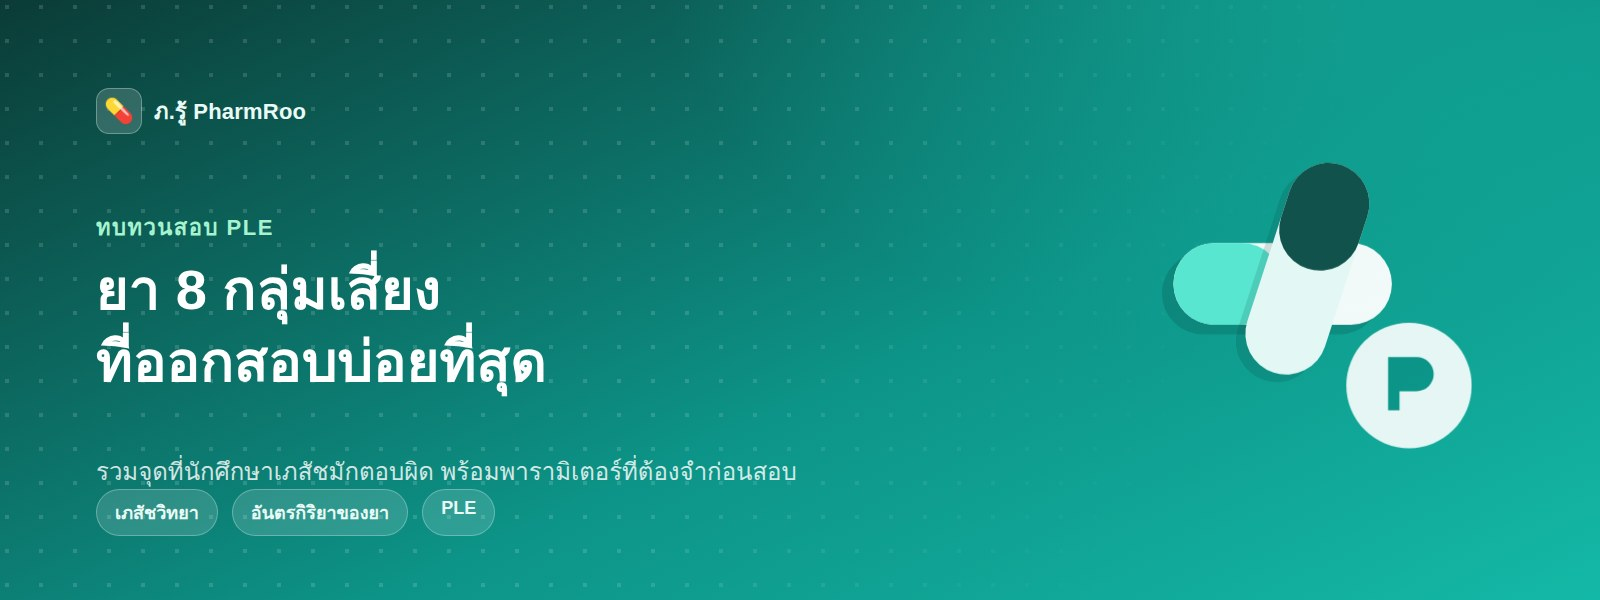
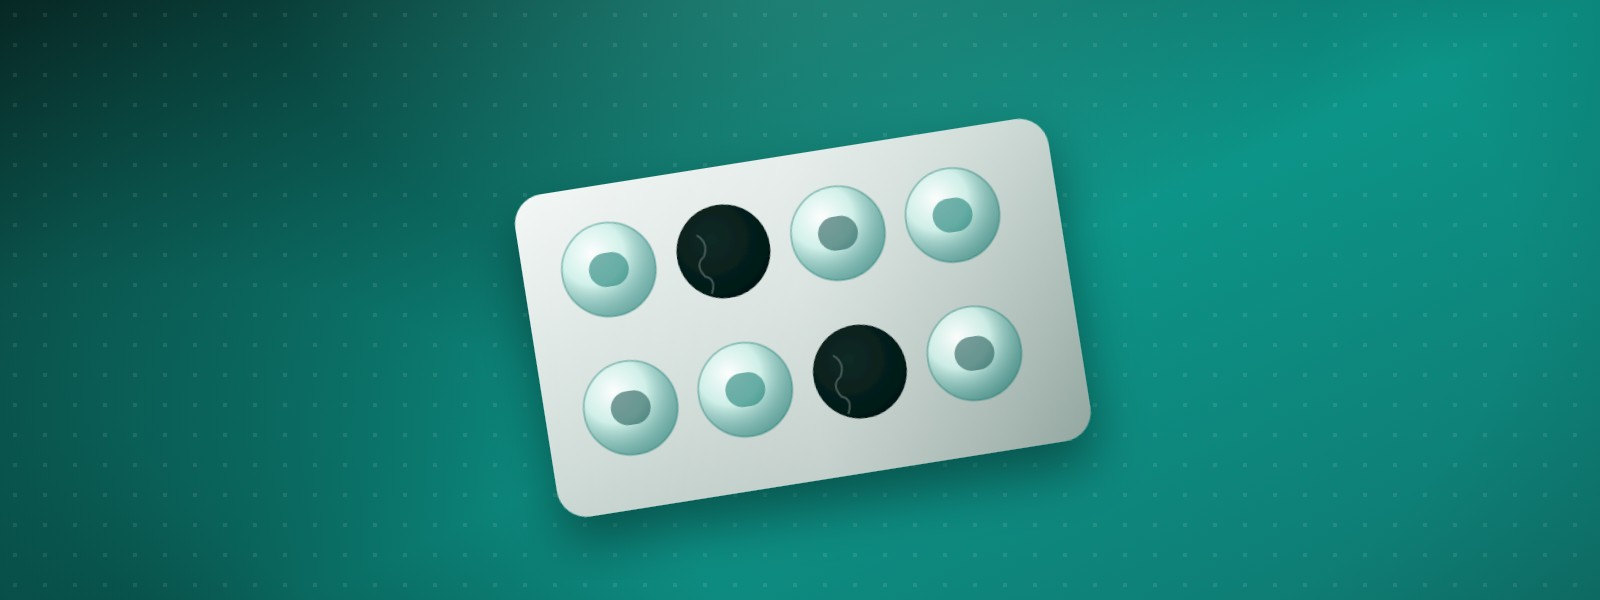
Make the newest blog post a full-width featured card + redo cover art
The 2-column grid put a single post in a half-width cell, much
narrower than the full-width health-news section above it. The newest
post now renders as a full-width featured card (taller image, larger
title) matching that section's visual weight; any older posts still
render in the 2-col grid below.

Also replaces the cover image: the first version baked a duplicate
headline into the graphic (redundant with the real title already
shown in the card) and wasn't safe to crop — object-cover on a narrow
mobile card (~1.6:1) keeps only the center ~55-60% of the image width,
which would have clipped the left-anchored badge/headline. The new
version is a centered, text-free blister-pack illustration (teal
gradient, foil sheen, a couple of "popped" cavities), sized so the
whole illustration stays inside that crop window at any card aspect
ratio from the mobile card (~1.6:1) to the widest desktop crop.

Claude-Session: https://claude.ai/code/session_01HLE9mUmHohvzo2K7jzFjau

diff --git a/app/blog/page.tsx b/app/blog/page.tsx
@@ -27,36 +27,72 @@ export default async function BlogPage() {
             ยังไม่มีบทความ กำลังมาเร็วๆ นี้
           </p>
         ) : (
-          <div className="grid gap-6 md:grid-cols-2">
-            {posts.map((post) => (
-              <Link
-                key={post.id}
-                href={`/blog/${post.slug}`}
-                className="bg-white rounded-xl shadow-sm hover:shadow-md transition p-6 block"
-              >
-                {post.cover_image && (
-                  <img
-                    src={post.cover_image}
-                    alt={post.title}
-                    className="w-full h-40 object-cover rounded-lg mb-4"
-                  />
-                )}
-                <div className="flex items-center gap-2 text-sm text-gray-400 mb-2">
-                  {post.category && (
-                    <span className="bg-blue-50 text-blue-600 px-2 py-0.5 rounded-full text-xs">
-                      {post.category}
+          <div className="space-y-8">
+            {/* Featured: newest post, full width to match the news section above */}
+            <Link
+              href={`/blog/${posts[0].slug}`}
+              className="group block overflow-hidden rounded-xl border bg-white shadow-sm transition hover:shadow-md"
+            >
+              {posts[0].cover_image && (
+                <img
+                  src={posts[0].cover_image}
+                  alt={posts[0].title}
+                  className="h-56 w-full object-cover sm:h-72"
+                />
+              )}
+              <div className="p-6">
+                <div className="mb-2 flex items-center gap-2 text-sm text-gray-400">
+                  {posts[0].category && (
+                    <span className="rounded-full bg-blue-50 px-2 py-0.5 text-xs text-blue-600">
+                      {posts[0].category}
                     </span>
                   )}
-                  <span>{post.reading_time} นาที</span>
+                  <span>{posts[0].reading_time} นาที</span>
                 </div>
-                <h2 className="text-lg font-semibold mb-2">{post.title}</h2>
-                {post.description && (
-                  <p className="text-gray-500 text-sm line-clamp-2">
-                    {post.description}
+                <h2 className="mb-2 text-xl font-semibold group-hover:text-blue-600 sm:text-2xl">
+                  {posts[0].title}
+                </h2>
+                {posts[0].description && (
+                  <p className="line-clamp-3 text-gray-500">
+                    {posts[0].description}
                   </p>
                 )}
-              </Link>
-            ))}
+              </div>
+            </Link>
+
+            {posts.length > 1 && (
+              <div className="grid gap-6 md:grid-cols-2">
+                {posts.slice(1).map((post) => (
+                  <Link
+                    key={post.id}
+                    href={`/blog/${post.slug}`}
+                    className="bg-white rounded-xl shadow-sm hover:shadow-md transition p-6 block"
+                  >
+                    {post.cover_image && (
+                      <img
+                        src={post.cover_image}
+                        alt={post.title}
+                        className="w-full h-40 object-cover rounded-lg mb-4"
+                      />
+                    )}
+                    <div className="flex items-center gap-2 text-sm text-gray-400 mb-2">
+                      {post.category && (
+                        <span className="bg-blue-50 text-blue-600 px-2 py-0.5 rounded-full text-xs">
+                          {post.category}
+                        </span>
+                      )}
+                      <span>{post.reading_time} นาที</span>
+                    </div>
+                    <h2 className="text-lg font-semibold mb-2">{post.title}</h2>
+                    {post.description && (
+                      <p className="text-gray-500 text-sm line-clamp-2">
+                        {post.description}
+                      </p>
+                    )}
+                  </Link>
+                ))}
+              </div>
+            )}
           </div>
         )}
       </div>
